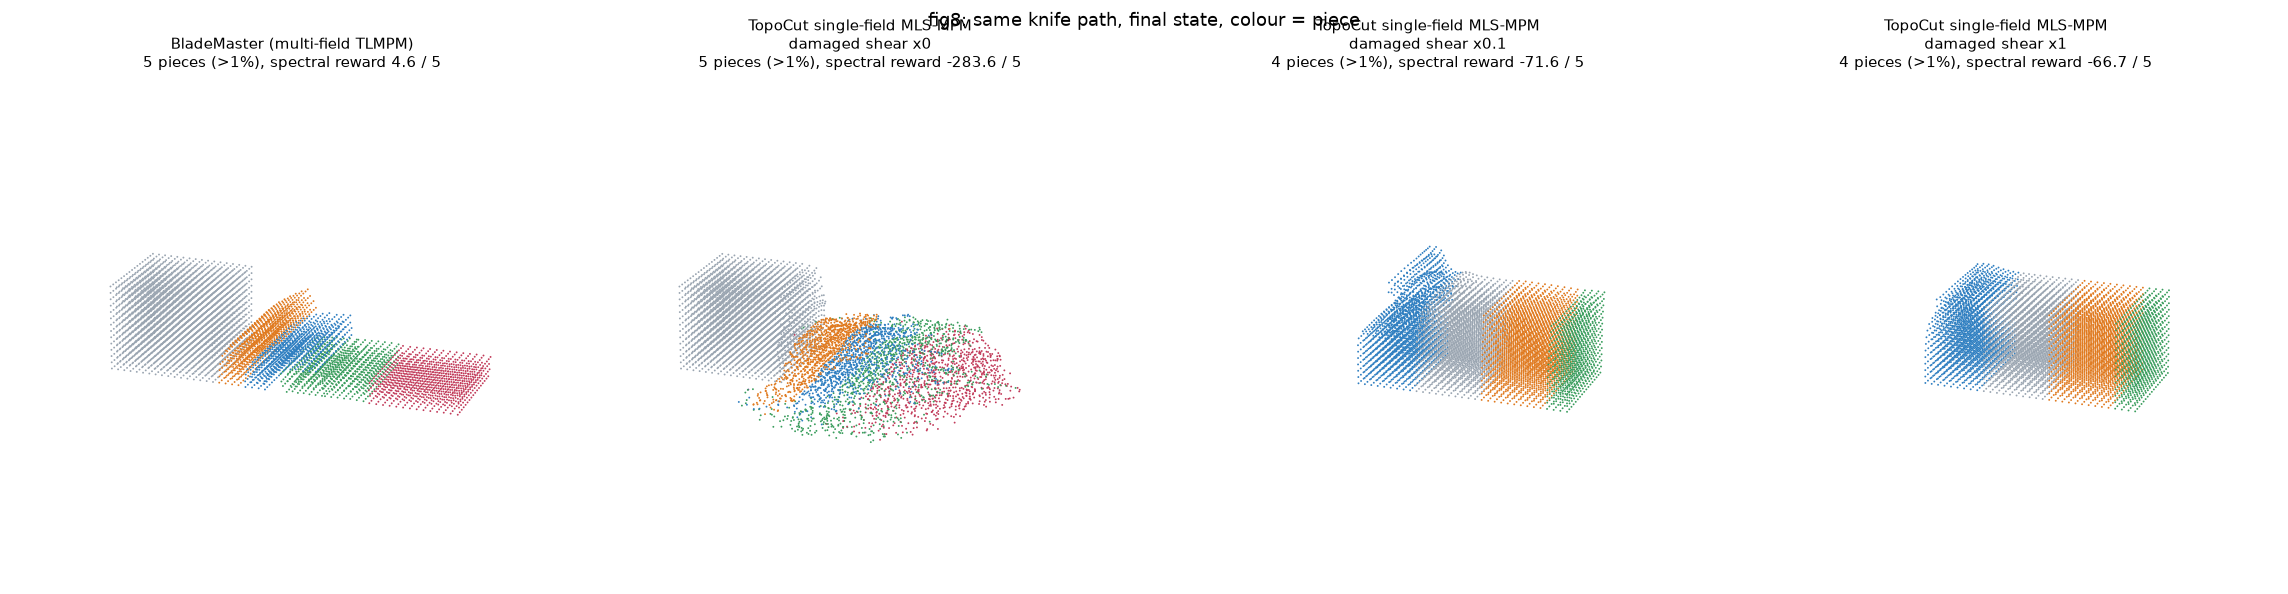
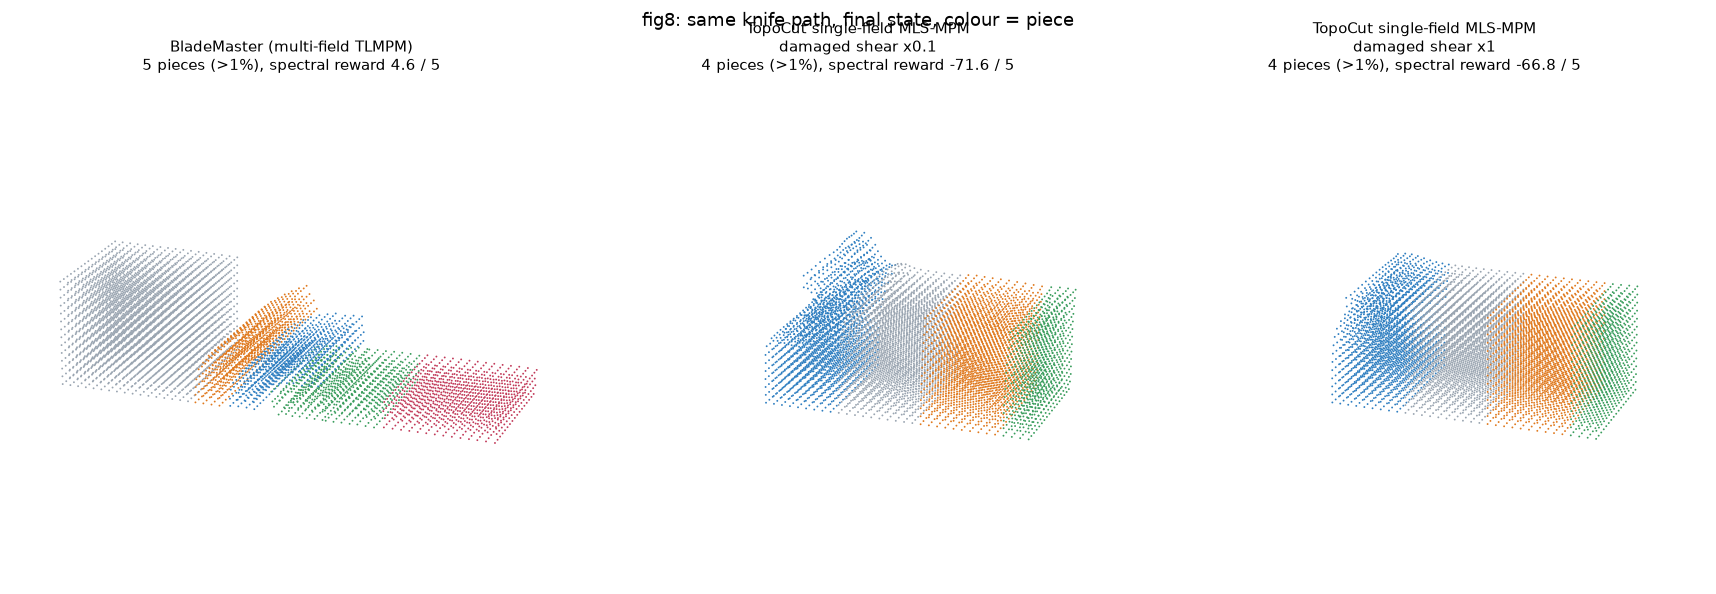
docs: TopoCut comparison rerun with damage measured from the settled state; MLS-MPM diverges at 1 ms under gravity alone

diff --git a/scripts/topocut_compare.py b/scripts/topocut_compare.py
@@ -201,7 +201,7 @@ def plot(directory, output):
     summary = json.loads((directory / "summary.json").read_text())
     name = summary["scenario"]
     colors = np.array(["#9aa5b1", "#e07a1f", "#2f7fc1", "#3a9d5d", "#c23b5a", "#7d5ba6", "#c9a227"])
-    runs = summary["runs"]
+    runs = [r for r in summary["runs"] if summary[r]["evaluation"] is not None]
     finals = [np.load(directory / f"{r}.npz")["positions"][-1] * 1000 for r in runs]
     lo = np.min([f.min(0) for f in finals], axis=0)
     hi = np.max([f.max(0) for f in finals], axis=0)
@@ -220,9 +220,6 @@ def plot(directory, output):
         ax.view_init(elev=20, azim=-70)
         ax.set_axis_off()
         e = summary[run_name]["evaluation"]
-        if e is None:
-            ax.set_title(f"{run_name}: {summary[run_name]['error']}", fontsize=9)
-            continue
         if run_name == "blademaster":
             title = "BladeMaster (multi-field TLMPM)"
         else:

diff --git a/TODO.md b/TODO.md
@@ -73,6 +73,7 @@
 
 ## 8. TopoCut 对照（方案 A，见 RESULTS）
 - [x] Warp 版 TopoCut 式单场 MLS-MPM（`mlsmpm.py`）、SDF 挖切 + Marching Cubes 分块（`topocut_topology.py`）、谱奖励（`spectral.py`）、同刀路对比（`scripts/topocut_compare.py`）。
-- [x] Fig. 8：BladeMaster 两种步长都分块全对；MLS-MPM 论文步长下 ×0 / ×1 发散，0.25 ms 下切片粘连、推片推走整块材料（53 mm），或完全软化时液化。
-- [x] Fig. 4：MLS-MPM 分块纯度 ≥ 0.995，但中间片抬不起来（≤ 1.5 mm，BladeMaster 37.7 mm）。
+- [x] 式 (6) 的 \(J\) 改为相对重力静置后的状态（原来 Fig. 4 只受重力就有 23–26% 粒子被标损伤）；两种求解器先静置 1 s。
+- [x] Fig. 8：BladeMaster 两种步长都分块全对；MLS-MPM 在论文步长 1 ms 下只受重力就发散（刀接触前），0.25 ms 下切片粘连、推片推走整块材料（53 mm）。
+- [x] Fig. 4：MLS-MPM 分块纯度 ≥ 0.995；2 ms、×0.1 片抬 18.4 mm 但带起周围材料 9.4 mm，其余组合 ≤ 11 mm（BladeMaster 38.9 mm，其余 ≤ 0.8 mm）。
 - [ ] TopoCut 的 MPPI 示范与 PDDP 策略（需要时再做；对照目前只针对仿真与评价）。
